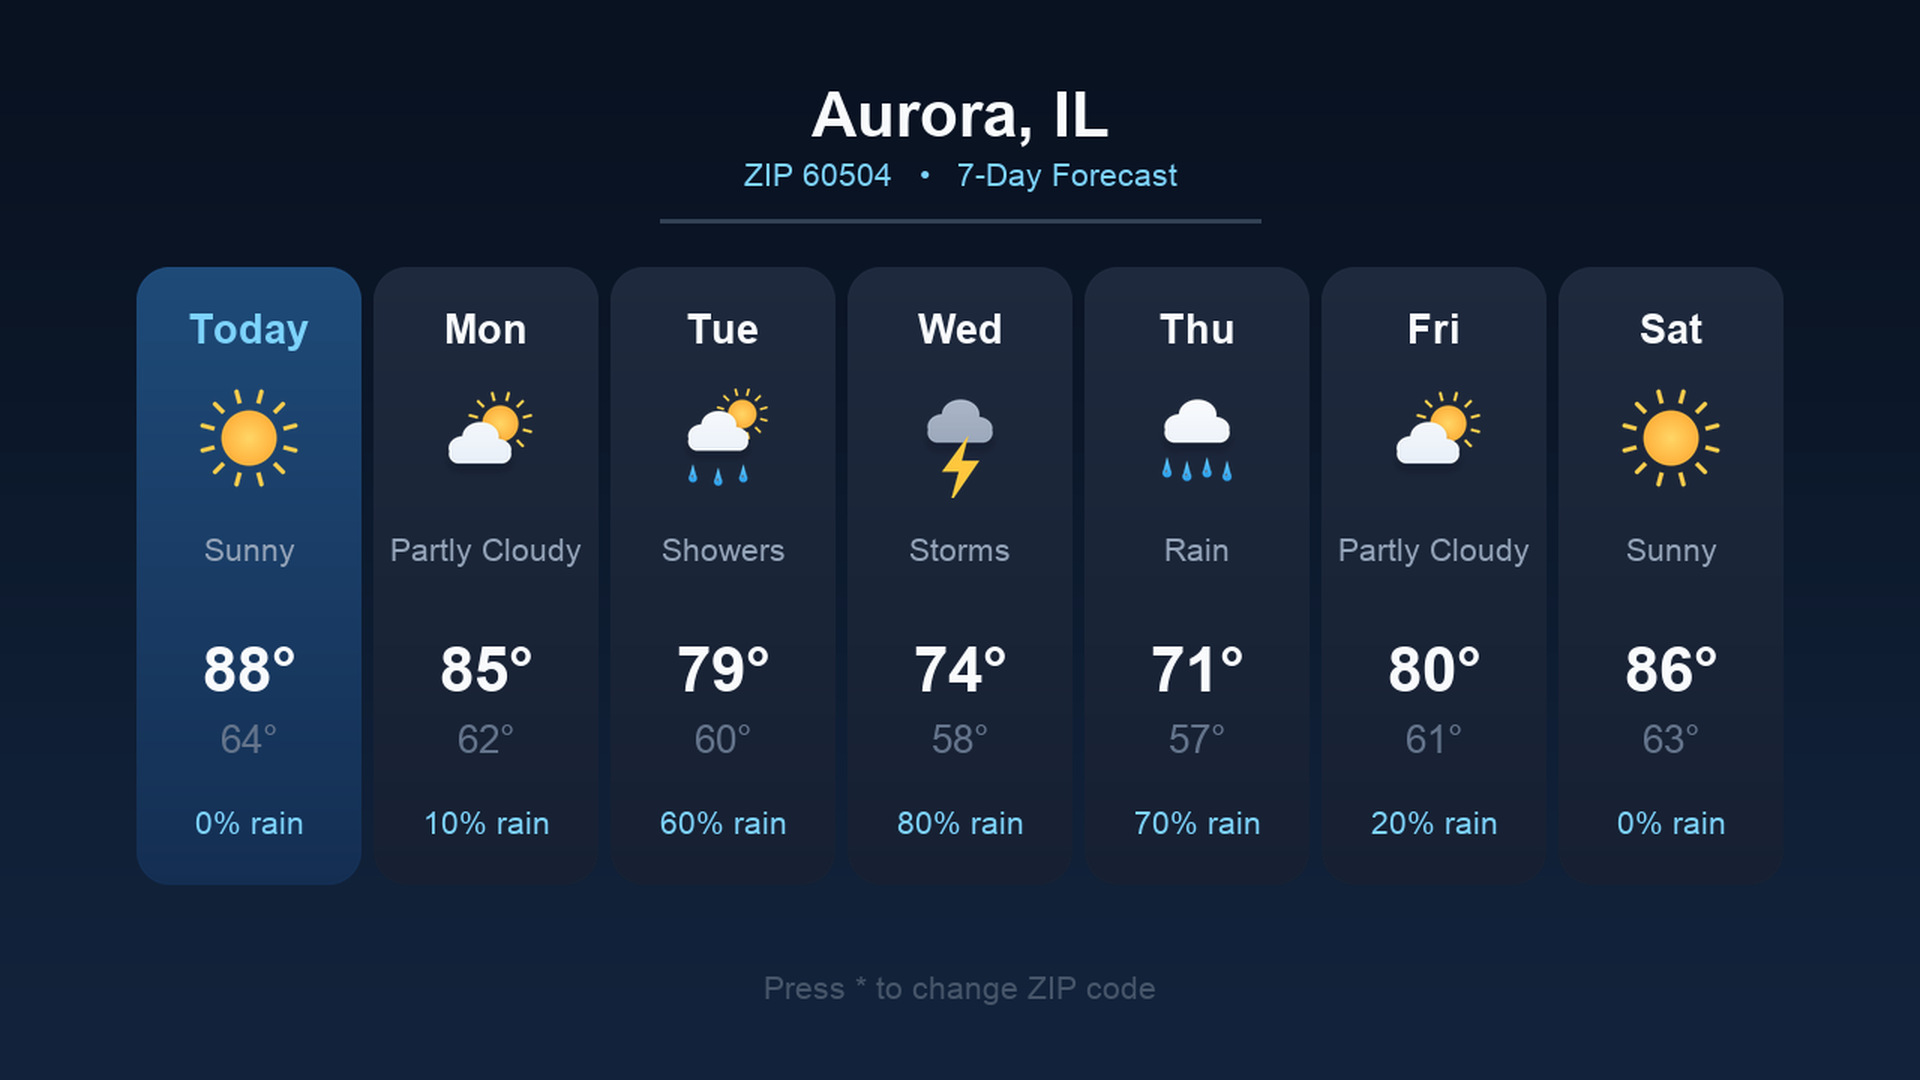
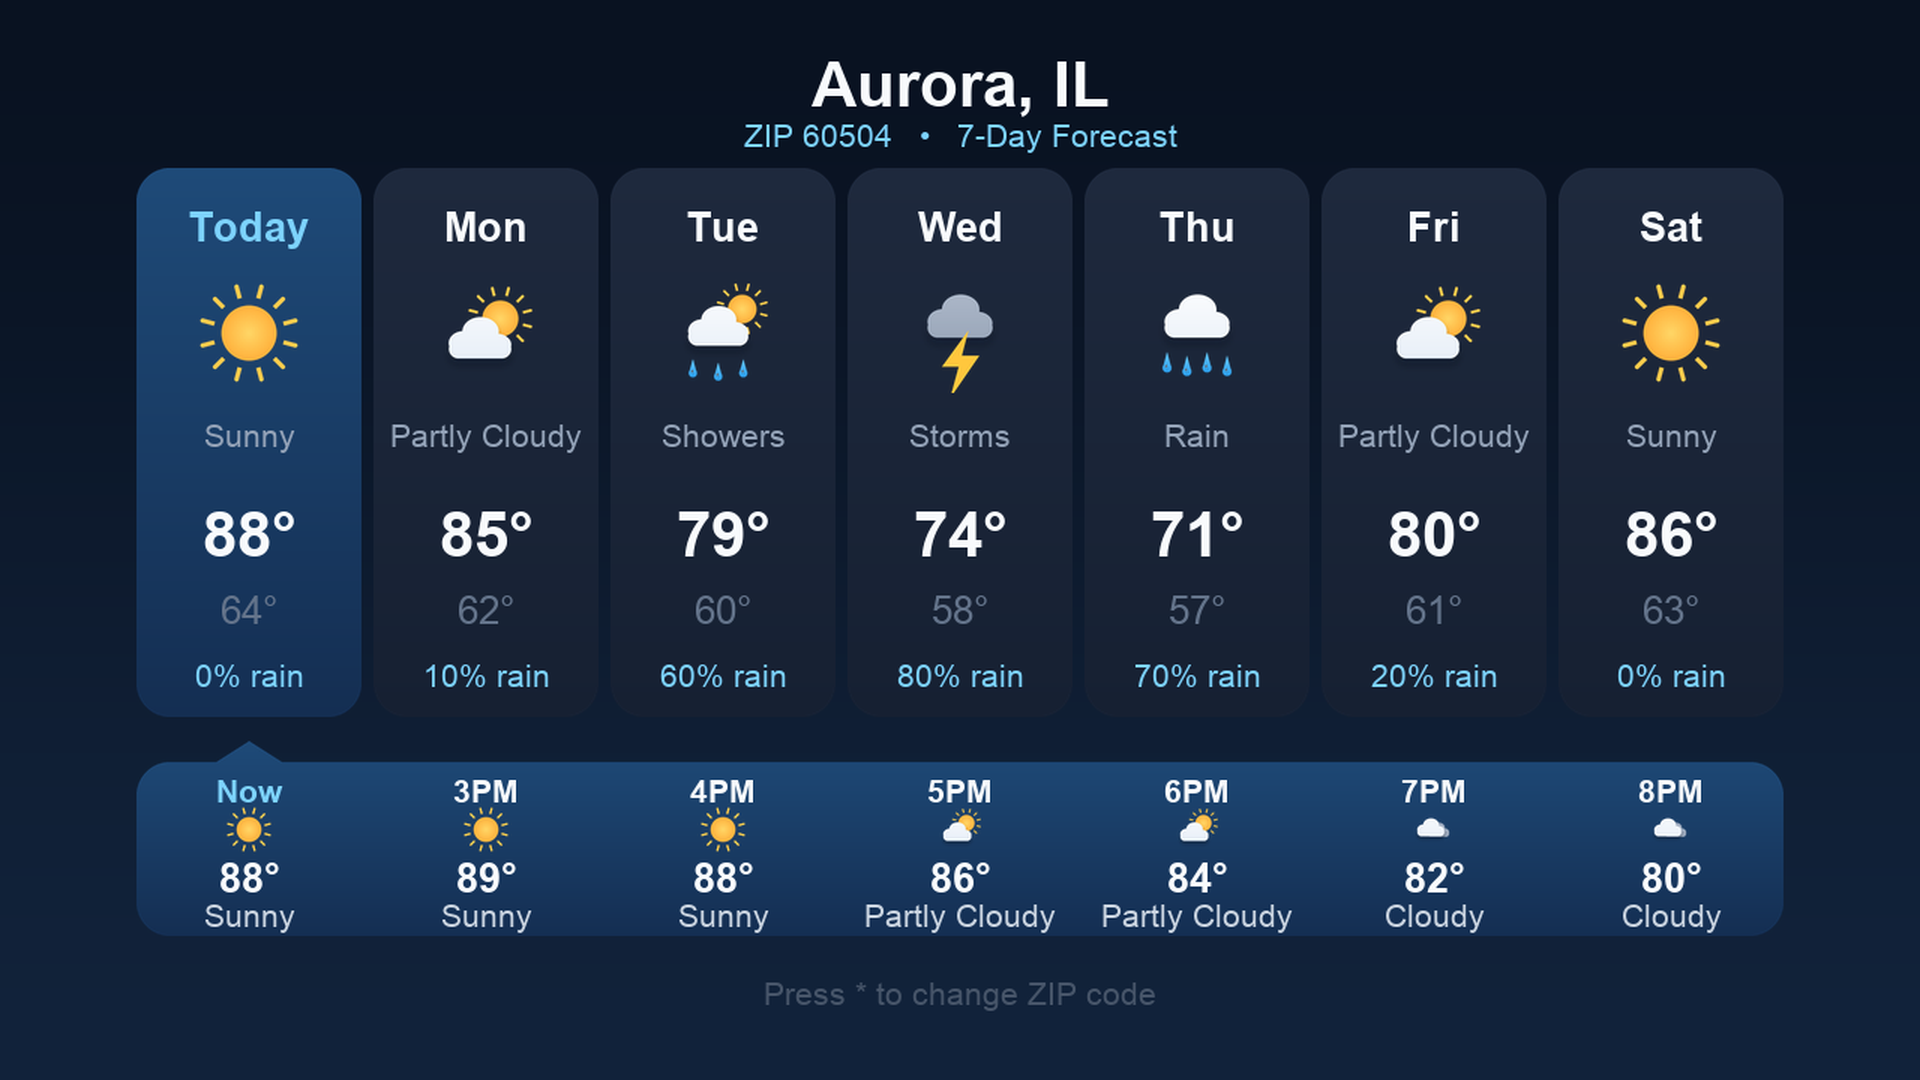
Add Today hourly forecast strip and fix ZIP keypad focus
- Add an always-on 7-hour strip beneath the 7-day forecast for Today,
  fed by the NWS forecastHourly endpoint (new HourCell component)
- Style the strip in the Today-tile color with an upward tab centered
  on the Today tile so it reads as expanding out of it
- Evenly space the 7 hours to align each under its day tile
- Shrink day cards (412->366) to make room and keep clean spacing
- Keep numpad highlight on the last selected key during ZIP entry
- Regenerate UI chrome and marketing assets; bump build to 024

diff --git a/tools/gen_marketing.py b/tools/gen_marketing.py
@@ -68,27 +68,63 @@ SAMPLE_DAYS = [
     ("Sat", "Sunny", 86, 63, 0, False),
 ]
 
+# Today's hourly strip: (time, condition, temp, is_now)
+SAMPLE_HOURS = [
+    ("Now", "Sunny", 88, True),
+    ("3PM", "Sunny", 89, False),
+    ("4PM", "Sunny", 88, False),
+    ("5PM", "Partly Cloudy", 86, False),
+    ("6PM", "Partly Cloudy", 84, False),
+    ("7PM", "Cloudy", 82, False),
+    ("8PM", "Cloudy", 80, False),
+]
+
+CARD_Y = 112
+
 
 def draw_card(base, x, day, cond, hi, lo, precip, today):
     card = load("ui/card_today.png" if today else "ui/card.png")
-    base.alpha_composite(card, (x, 178))
+    base.alpha_composite(card, (x, CARD_Y))
     d = ImageDraw.Draw(base)
     cx = x + 75
-    ctext(d, cx, 178 + 26, day, F_MEDB, CYAN if today else WHITE)
+    ctext(d, cx, CARD_Y + 24, day, F_MEDB, CYAN if today else WHITE)
     icon = load("weather/" + ICON.get(cond, "cloudy.png")).resize((80, 80), Image.LANCZOS)
-    base.alpha_composite(icon, (x + 35, 178 + 74))
-    ctext(d, cx, 178 + 176, cond, F_SMALL, MUTED)
-    ctext(d, cx, 178 + 244, f"{hi}\u00b0", F_LARGE, WHITE)
-    ctext(d, cx, 178 + 300, f"{lo}\u00b0", F_MED, DIM)
-    ctext(d, cx, 178 + 358, f"{precip}% rain", F_SMALL, CYAN)
+    base.alpha_composite(icon, (x + 35, CARD_Y + 70))
+    ctext(d, cx, CARD_Y + 166, cond, F_SMALL, MUTED)
+    ctext(d, cx, CARD_Y + 220, f"{hi}\u00b0", F_LARGE, WHITE)
+    ctext(d, cx, CARD_Y + 280, f"{lo}\u00b0", F_MED, DIM)
+    ctext(d, cx, CARD_Y + 326, f"{precip}% rain", F_SMALL, CYAN)
+
+
+def draw_hourly(base):
+    """Today's always-on hourly strip beneath the 7-day row, in the Today-tile
+    color with a tab under the Today card so it reads as expanding out of it."""
+    d = ImageDraw.Draw(base)
+    panel = load("ui/hourly.png")  # 1098x130 with top tab
+    px, py = 91, 494
+    base.alpha_composite(panel, (px, py))
+
+    row_y = 508  # body top (below the 14px tab)
+    hi_cond = (203, 213, 225)  # light slate, readable on the blue panel
+    f_time = font(True, 21)
+    # Cell centers evenly span the day-card centers: Today=166 .. Sat=1114.
+    left_c, right_c = px + 75, px + 1023
+    n = len(SAMPLE_HOURS)
+    pitch = (right_c - left_c) / (n - 1)
+    for i, (label, cond, temp, is_now) in enumerate(SAMPLE_HOURS):
+        cx = round(left_c + i * pitch)
+        ctext(d, cx, row_y + 7, label, f_time, CYAN if is_now else WHITE)
+        icon = load("weather/" + ICON.get(cond, "cloudy.png")).resize((36, 36), Image.LANCZOS)
+        base.alpha_composite(icon, (cx - 18, row_y + 27))
+        ctext(d, cx, row_y + 62, f"{temp}\u00b0", F_MEDB, WHITE)
+        ctext(d, cx, row_y + 90, cond, F_SMALL, hi_cond)
 
 
 def screenshot_forecast():
     base = load("bg_gradient.png").resize((1280, 720), Image.LANCZOS)
     d = ImageDraw.Draw(base)
-    ctext(d, 640, 52, "Aurora, IL", F_LARGE, WHITE)
-    ctext(d, 640, 104, "ZIP 60504   \u2022   7-Day Forecast", F_SMALL, CYAN)
-    d.rectangle([440, 146, 840, 148], fill=LINE)
+    ctext(d, 640, 32, "Aurora, IL", F_LARGE, WHITE)
+    ctext(d, 640, 78, "ZIP 60504   \u2022   7-Day Forecast", F_SMALL, CYAN)
 
     n = len(SAMPLE_DAYS)
     cw, gap = 150, 8
@@ -97,7 +133,9 @@ def screenshot_forecast():
     for i, (day, cond, hi, lo, pr, today) in enumerate(SAMPLE_DAYS):
         draw_card(base, startx + i * (cw + gap), day, cond, hi, lo, pr, today)
 
-    ctext(d, 640, 646, "Press * to change ZIP code", F_SMALL, FAINT)
+    draw_hourly(base)
+
+    ctext(d, 640, 650, "Press * to change ZIP code", F_SMALL, FAINT)
     return base
 
 

diff --git a/tools/gen_icons.py b/tools/gen_icons.py
@@ -422,6 +422,28 @@ def vgrad_rrect(w, h, radius, top, bottom):
     return out.resize((w, h), Image.LANCZOS)
 
 
+def gen_hourly_panel():
+    """Blue 'Today' panel with an upward tab centered under the Today card,
+    so the hourly strip reads as expanding out of the Today tile."""
+    W, body_h, tri_h = 1098, 116, 14
+    H = body_h + tri_h
+    top, bottom = (30, 74, 120), (20, 46, 82)
+    # 75 = Today card center relative to the panel; the Now cell is centered here too
+    tri_cx, tri_hw = 75, 22
+    s = SS
+    cw, ch = W * s, H * s
+    grad = vgrad(cw, ch, top, bottom)
+    mask = Image.new("L", (cw, ch), 0)
+    md = ImageDraw.Draw(mask)
+    md.rounded_rectangle([0, tri_h * s, cw - 1, ch - 1], radius=22 * s, fill=255)
+    md.polygon([((tri_cx - tri_hw) * s, tri_h * s),
+                ((tri_cx + tri_hw) * s, tri_h * s),
+                (tri_cx * s, 0)], fill=255)
+    out = Image.new("RGBA", (cw, ch), (0, 0, 0, 0))
+    out.paste(grad, (0, 0), mask)
+    return out.resize((W, H), Image.LANCZOS)
+
+
 def gen_chrome():
     rrect(640, 600, 34, (15, 23, 42, 232), border=(56, 189, 248, 40), border_w=2).save(
         os.path.join(UI, "panel.png"))
@@ -436,8 +458,9 @@ def gen_chrome():
         os.path.join(UI, "digit_active.png"))
     rrect(60, 74, 14, (17, 24, 39, 255), border=(51, 65, 85, 180), border_w=1).save(
         os.path.join(UI, "digit_filled.png"))
-    vgrad_rrect(150, 412, 22, (30, 41, 61), (22, 32, 50)).save(os.path.join(UI, "card.png"))
-    vgrad_rrect(150, 412, 22, (30, 74, 120), (20, 46, 82)).save(os.path.join(UI, "card_today.png"))
+    vgrad_rrect(150, 366, 22, (30, 41, 61), (22, 32, 50)).save(os.path.join(UI, "card.png"))
+    vgrad_rrect(150, 366, 22, (30, 74, 120), (20, 46, 82)).save(os.path.join(UI, "card_today.png"))
+    gen_hourly_panel().save(os.path.join(UI, "hourly.png"))
 
     spin = 100
     c = spin * SS

diff --git a/CHANGELOG.md b/CHANGELOG.md
@@ -1,0 +1,14 @@
+# Changelog
+
+All notable changes to Weather for Roku are documented here.
+
+## [1.0.0] — 2026-07-13
+
+Initial release.
+
+- 7-day forecast with daily highs, lows, conditions, and chance of rain.
+- Enter a US ZIP code once — it's saved locally and reused on every launch.
+- Change location anytime by pressing `*` on the remote.
+- On-device ZIP-to-location lookup (bundled Census data); no geocoding service.
+- Forecast data from the U.S. National Weather Service.
+- Custom weather art for each condition and a clean, minimal UI.
